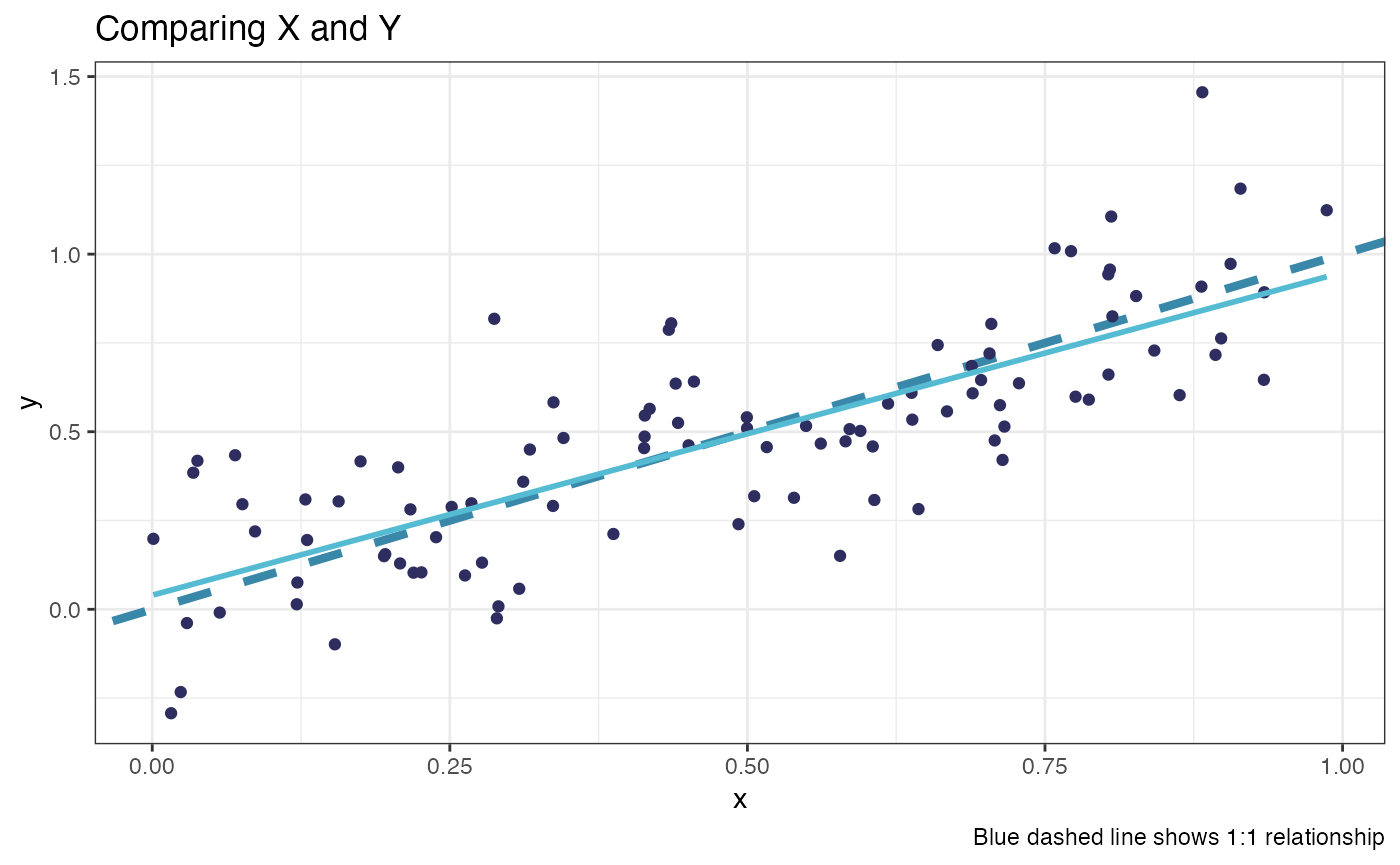
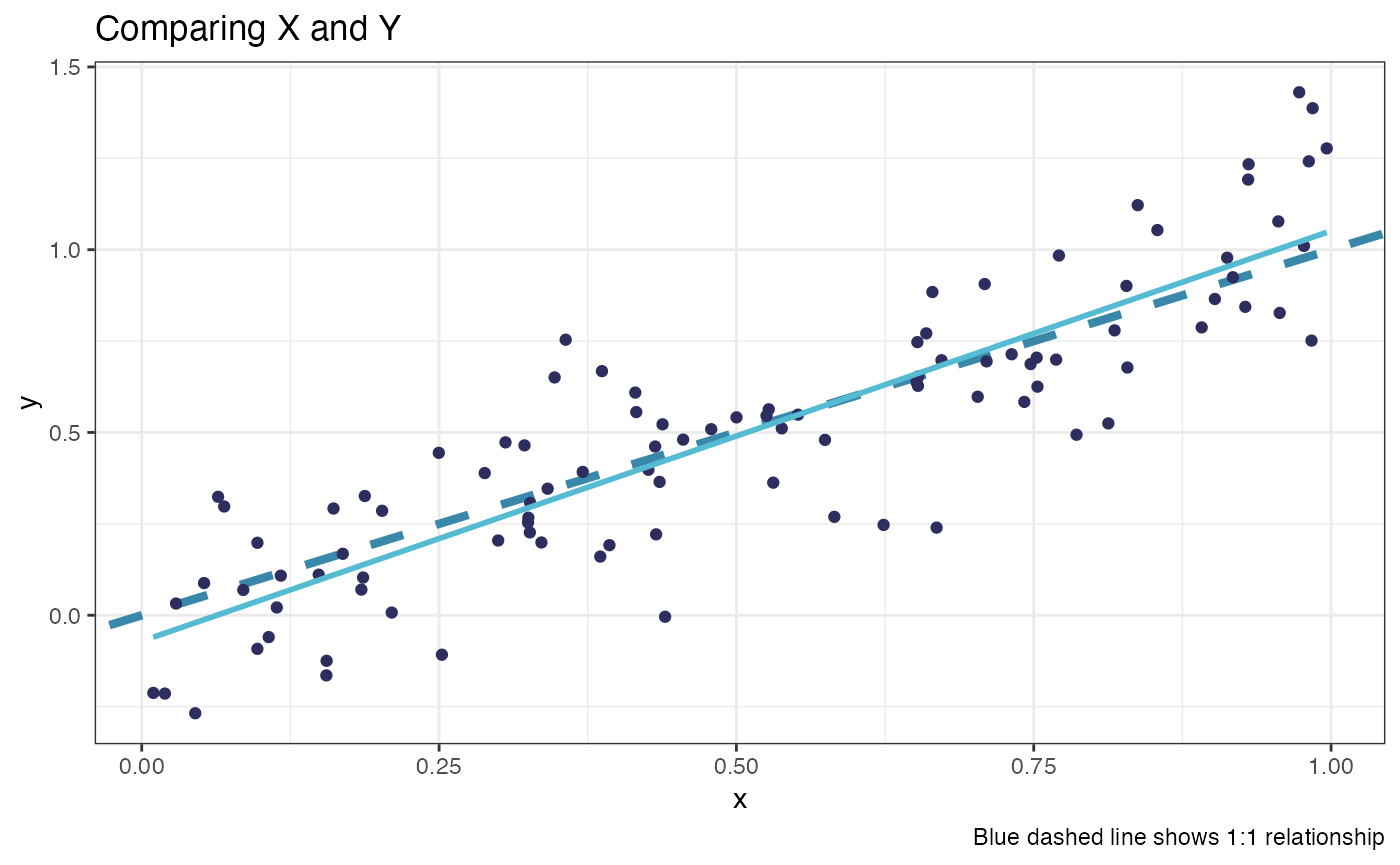
Fixing syntax in README

diff --git a/docs/articles/HGUTheme.html b/docs/articles/HGUTheme.html
@@ -166,18 +166,18 @@ regression line on top. First we can make some fake data</p>
 <span><span class="op">)</span></span>
 <span><span class="va">plot_data</span></span>
 <span><span class="co">#&gt; <span style="color: #949494;"># A tibble: 100 × 2</span></span></span>
-<span><span class="co">#&gt;         x     y</span></span>
-<span><span class="co">#&gt;     <span style="color: #949494; font-style: italic;">&lt;dbl&gt;</span> <span style="color: #949494; font-style: italic;">&lt;dbl&gt;</span></span></span>
-<span><span class="co">#&gt; <span style="color: #BCBCBC;"> 1</span> 0.582  0.473</span></span>
-<span><span class="co">#&gt; <span style="color: #BCBCBC;"> 2</span> 0.387  0.212</span></span>
-<span><span class="co">#&gt; <span style="color: #BCBCBC;"> 3</span> 0.500  0.510</span></span>
-<span><span class="co">#&gt; <span style="color: #BCBCBC;"> 4</span> 0.506  0.318</span></span>
-<span><span class="co">#&gt; <span style="color: #BCBCBC;"> 5</span> 0.842  0.729</span></span>
-<span><span class="co">#&gt; <span style="color: #BCBCBC;"> 6</span> 0.220  0.103</span></span>
-<span><span class="co">#&gt; <span style="color: #BCBCBC;"> 7</span> 0.934  0.893</span></span>
-<span><span class="co">#&gt; <span style="color: #BCBCBC;"> 8</span> 0.034<span style="text-decoration: underline;">4</span> 0.385</span></span>
-<span><span class="co">#&gt; <span style="color: #BCBCBC;"> 9</span> 0.688  0.685</span></span>
-<span><span class="co">#&gt; <span style="color: #BCBCBC;">10</span> 0.705  0.804</span></span>
+<span><span class="co">#&gt;         x      y</span></span>
+<span><span class="co">#&gt;     <span style="color: #949494; font-style: italic;">&lt;dbl&gt;</span>  <span style="color: #949494; font-style: italic;">&lt;dbl&gt;</span></span></span>
+<span><span class="co">#&gt; <span style="color: #BCBCBC;"> 1</span> 0.931  1.23  </span></span>
+<span><span class="co">#&gt; <span style="color: #BCBCBC;"> 2</span> 0.426  0.398 </span></span>
+<span><span class="co">#&gt; <span style="color: #BCBCBC;"> 3</span> 0.085<span style="text-decoration: underline;">4</span> 0.069<span style="text-decoration: underline;">2</span></span></span>
+<span><span class="co">#&gt; <span style="color: #BCBCBC;"> 4</span> 0.527  0.563 </span></span>
+<span><span class="co">#&gt; <span style="color: #BCBCBC;"> 5</span> 0.956  1.08  </span></span>
+<span><span class="co">#&gt; <span style="color: #BCBCBC;"> 6</span> 0.326  0.227 </span></span>
+<span><span class="co">#&gt; <span style="color: #BCBCBC;"> 7</span> 0.336  0.199 </span></span>
+<span><span class="co">#&gt; <span style="color: #BCBCBC;"> 8</span> 0.977  1.01  </span></span>
+<span><span class="co">#&gt; <span style="color: #BCBCBC;"> 9</span> 0.188  0.326 </span></span>
+<span><span class="co">#&gt; <span style="color: #BCBCBC;">10</span> 0.202  0.286 </span></span>
 <span><span class="co">#&gt; <span style="color: #949494;"># … with 90 more rows</span></span></span></code></pre></div>
 <p>Then we can make a simple plot that you might make for a
 presentation:</p>
@@ -389,9 +389,9 @@ an example</p>
 <span>  <span class="fu"><a href="https://ggplot2.tidyverse.org/reference/ggtheme.html" class="external-link">theme_classic</a></span><span class="op">(</span><span class="op">)</span> <span class="op">+</span> <span class="co"># Setting the theme to classic</span></span>
 <span>  <span class="fu"><a href="../reference/scale_fill_gradient_hgu.html">scale_fill_gradient_hgu</a></span><span class="op">(</span><span class="op">)</span> <span class="co"># Adding the MRC HGU colour theme gradient</span></span></code></pre></div>
 <p><img src="HGUTheme_files/figure-html/unnamed-chunk-13-1.png" width="700"></p>
-<p>Although these functions are supplied, mostly out of completeness, it
-is much clearer to use a theme such as thos supplied by the viridis
-package</p>
+<p>Although these functions are supplied (mostly out of completeness) it
+is much clearer to use a theme such as those supplied by the
+<code>viridis</code> package</p>
 <div class="sourceCode" id="cb13"><pre class="downlit sourceCode r">
 <code class="sourceCode R"><span><span class="fu"><a href="https://ggplot2.tidyverse.org/reference/ggplot.html" class="external-link">ggplot</a></span><span class="op">(</span></span>
 <span>  data <span class="op">=</span> <span class="va">plot_data</span>,</span>

diff --git a/docs/index.html b/docs/index.html
@@ -127,8 +127,8 @@
 <div class="section level2">
 <h2 id="colour-codes">Colour Codes<a class="anchor" aria-label="anchor" href="#colour-codes"></a>
 </h2>
-<p>Taken from the MRC HGU Powerpoint template: - <img src="https://via.placeholder.com/15/2D2E5F/2D2E5F.png" alt="#2D2E5F"> Dark blue: <code>#2D2E5F</code> - <img src="https://via.placeholder.com/15/3A88A9/3A88A9.png" alt="#3A88A9"> Mid blue: <code>#3A88A9</code> - <img src="https://via.placeholder.com/15/00BAD2/00BAD2" alt="#00BAD2"> Light blue: <code>#00BAD2</code></p>
-<p>Taken from the MRC Powerpoint template: - <img src="https://via.placeholder.com/15/2E2C5E/2E2C5E.png" alt="#2E2C5E"> Dark blue: <code>#2E2C5E</code> - <img src="https://via.placeholder.com/15/102F83/102F83.png" alt="#102F83"> Darkish blue: <code>#102F83</code> - <img src="https://via.placeholder.com/15/305CEF/305CEF.png" alt="#305CEF"> Mid blue: <code>#305CEF</code> - <img src="https://via.placeholder.com/15/D85941/D85941.png" alt="#D85941"> Red: <code>#D85941</code> - <img src="https://via.placeholder.com/15/4AA789/4AA789.png" alt="#4AA789"> Green: <code>#4AA789</code> - <img src="https://via.placeholder.com/15/F1BE44/F1BE44.png" alt="#F1BE44"> Yellow: <code>#F1BE44</code> - <img src="https://via.placeholder.com/15/DADADA/DADADA.png" alt="#DADADA"> Gray: <code>#DADADA</code></p>
+<p>Taken from the MRC HGU Powerpoint template: * <img src="https://via.placeholder.com/15/2D2E5F/2D2E5F.png" alt="#2D2E5F"> Dark blue: <code>#2D2E5F</code> * <img src="https://via.placeholder.com/15/3A88A9/3A88A9.png" alt="#3A88A9"> Mid blue: <code>#3A88A9</code> * <img src="https://via.placeholder.com/15/00BAD2/00BAD2" alt="#00BAD2"> Light blue: <code>#00BAD2</code></p>
+<p>Taken from the MRC Powerpoint template: * <img src="https://via.placeholder.com/15/2E2C5E/2E2C5E.png" alt="#2E2C5E"> Dark blue: <code>#2E2C5E</code> * <img src="https://via.placeholder.com/15/102F83/102F83.png" alt="#102F83"> Darkish blue: <code>#102F83</code> * <img src="https://via.placeholder.com/15/305CEF/305CEF.png" alt="#305CEF"> Mid blue: <code>#305CEF</code> * <img src="https://via.placeholder.com/15/D85941/D85941.png" alt="#D85941"> Red: <code>#D85941</code> * <img src="https://via.placeholder.com/15/4AA789/4AA789.png" alt="#4AA789"> Green: <code>#4AA789</code> * <img src="https://via.placeholder.com/15/F1BE44/F1BE44.png" alt="#F1BE44"> Yellow: <code>#F1BE44</code> * <img src="https://via.placeholder.com/15/DADADA/DADADA.png" alt="#DADADA"> Gray: <code>#DADADA</code></p>
 </div>
 </div>
 

diff --git a/README.md b/README.md
@@ -95,25 +95,25 @@ plot_data %>%
 
 ## Colour Codes
 
-Taken from the MRC HGU Powerpoint template: -
+Taken from the MRC HGU Powerpoint template: \*
 ![\#2D2E5F](https://via.placeholder.com/15/2D2E5F/2D2E5F.png) Dark blue:
-`#2D2E5F` -
+`#2D2E5F` \*
 ![\#3A88A9](https://via.placeholder.com/15/3A88A9/3A88A9.png) Mid blue:
-`#3A88A9` - ![\#00BAD2](https://via.placeholder.com/15/00BAD2/00BAD2)
+`#3A88A9` \* ![\#00BAD2](https://via.placeholder.com/15/00BAD2/00BAD2)
 Light blue: `#00BAD2`
 
-Taken from the MRC Powerpoint template: -
+Taken from the MRC Powerpoint template: \*
 ![\#2E2C5E](https://via.placeholder.com/15/2E2C5E/2E2C5E.png) Dark blue:
-`#2E2C5E` -
+`#2E2C5E` \*
 ![\#102F83](https://via.placeholder.com/15/102F83/102F83.png) Darkish
-blue: `#102F83` -
+blue: `#102F83` \*
 ![\#305CEF](https://via.placeholder.com/15/305CEF/305CEF.png) Mid blue:
-`#305CEF` -
+`#305CEF` \*
 ![\#D85941](https://via.placeholder.com/15/D85941/D85941.png) Red:
-`#D85941` -
+`#D85941` \*
 ![\#4AA789](https://via.placeholder.com/15/4AA789/4AA789.png) Green:
-`#4AA789` -
+`#4AA789` \*
 ![\#F1BE44](https://via.placeholder.com/15/F1BE44/F1BE44.png) Yellow:
-`#F1BE44` -
+`#F1BE44` \*
 ![\#DADADA](https://via.placeholder.com/15/DADADA/DADADA.png) Gray:
 `#DADADA`
